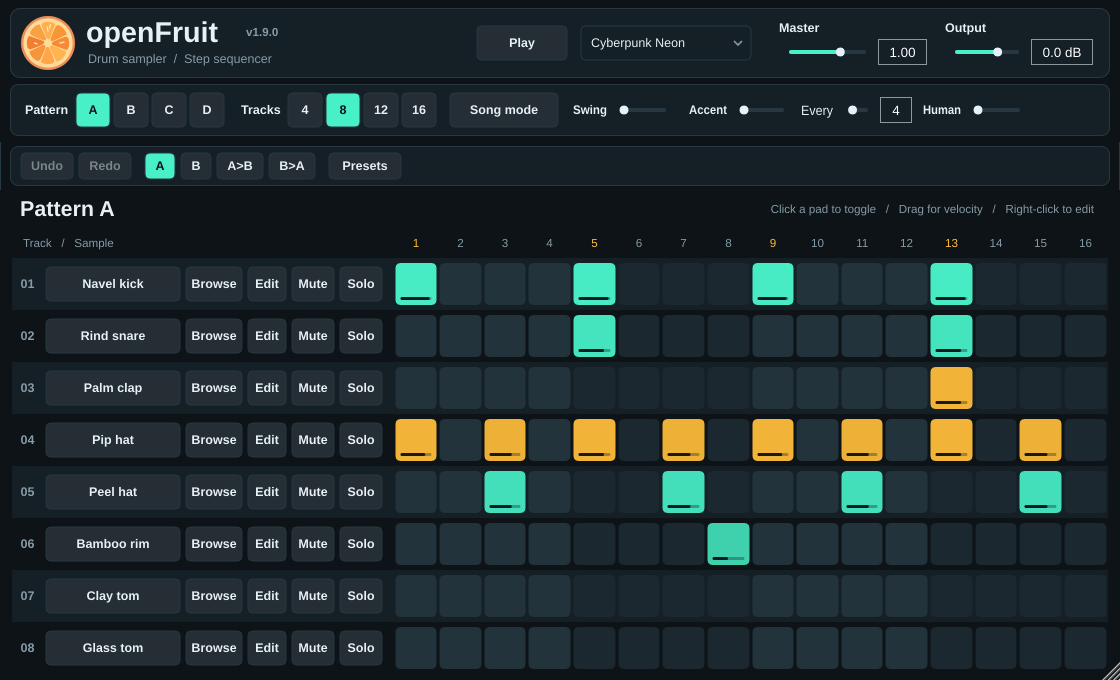
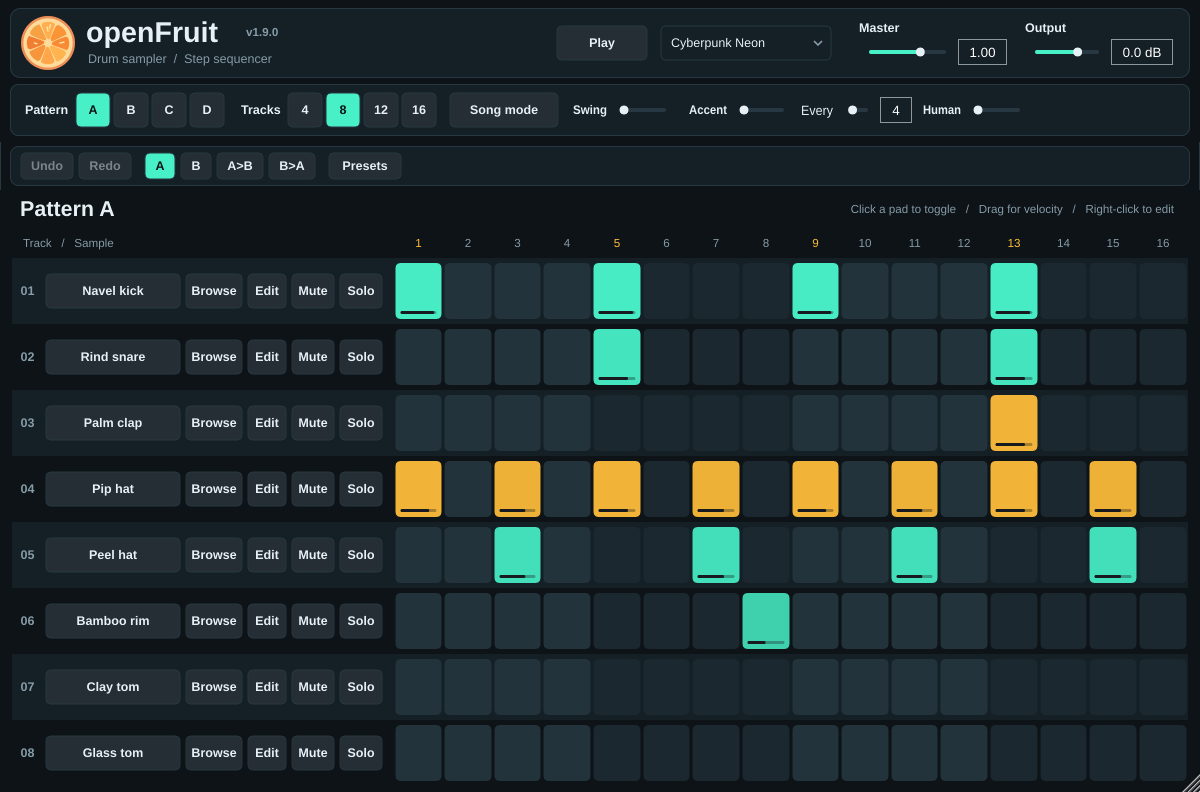
docs: refresh the editor preview at its default size
render_ui_snapshot was forcing the 1120x680 minimum, so the v1.9.0
preview never showed the editor's 1200x792 default. Capture the factory
patch at that size and re-render it on future main pushes.

diff --git a/tools/render_ui_snapshot.cpp b/tools/render_ui_snapshot.cpp
@@ -157,7 +157,6 @@ int main() try {
     processor.setRateAndBufferSizeDetails(48000,480);
     processor.prepareToPlay(48000,480);
     std::unique_ptr<OpenFruitAudioProcessorEditor> editor(static_cast<OpenFruitAudioProcessorEditor*>(processor.createEditor()));
-    editor->setSize(1120,680);
     const auto base = juce::File::getCurrentWorkingDirectory();
     auto& engine = processor.getEngine();
     auto& state = processor.getAPVTS();
